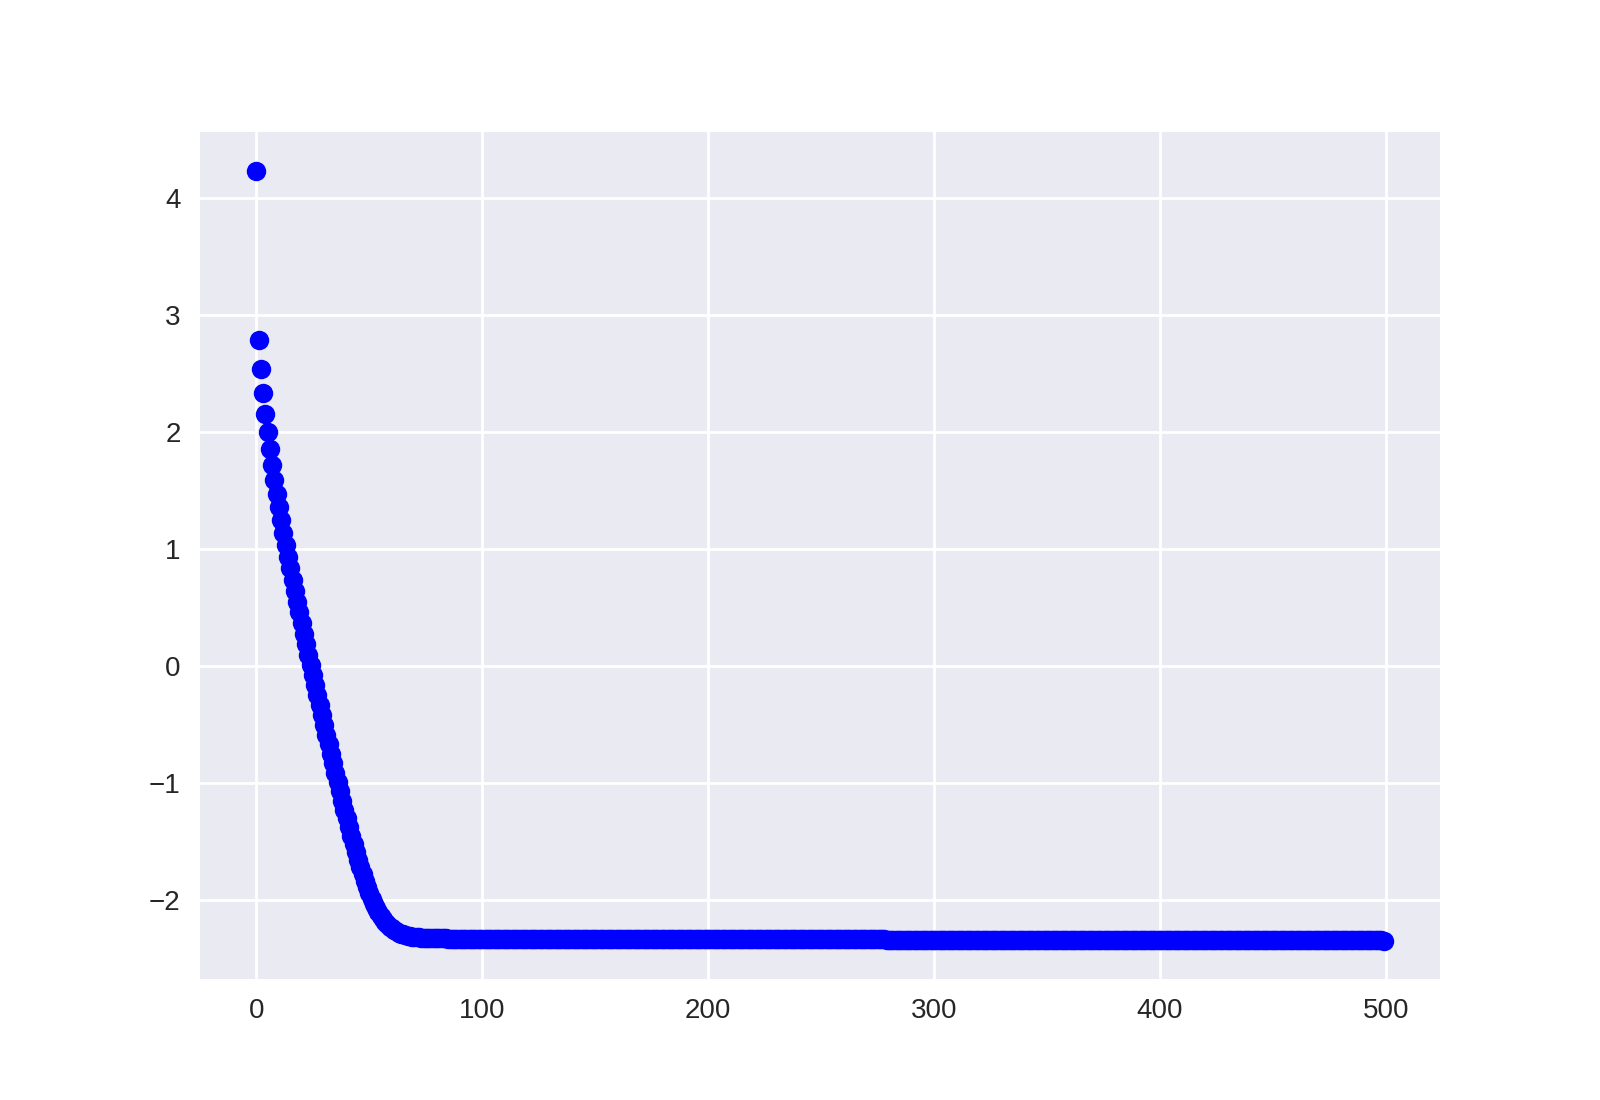
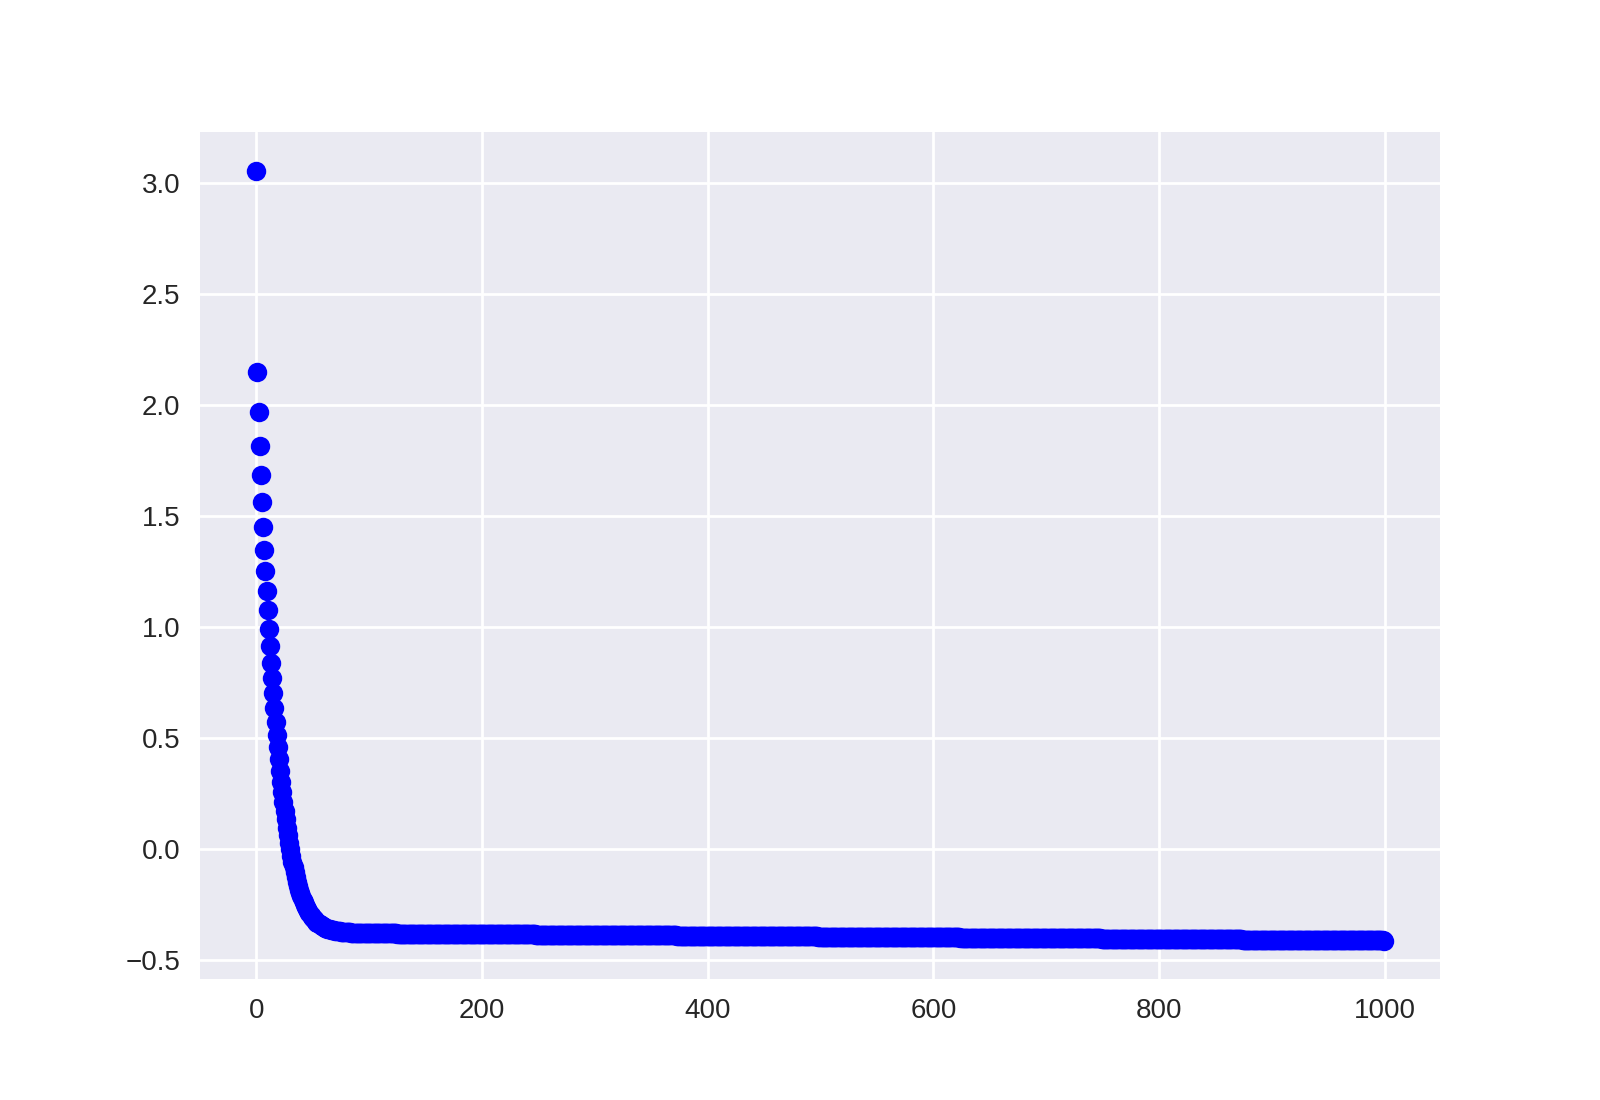
Deploy Ceystyle/optimization-benchmark to github.com/Ceystyle/optimization-benchmark.git:gh-pages

diff --git a/performance.py b/performance.py
@@ -1,0 +1,56 @@
+"""Compare performance of different optimization algorithms."""
+
+import numpy as np
+import matplotlib.pyplot as plt
+import functions
+import optimizers
+import inspect
+
+algorithms = []
+for name, obj in inspect.getmembers(optimizers):
+    if inspect.isclass(obj):
+        algorithms.append(name)
+
+benchmarks = ['Rosenbrock', 'StyblinskiTang']
+dimensions = {'Rosenbrock': 2, 'StyblinskiTang': 2}
+parameters = {'StupidGradientDescent': [0.0001], 'MomentumGradientDescent': [0.0001, 0.1]}
+
+MAX_BUDGET = 10000
+EPSILON = 0.1
+performance = dict()
+
+# Get minimal steps for all benchmark / algorithm combinations
+for benchmark in benchmarks:
+    bm = getattr(functions, benchmark)(dim=dimensions[benchmark])
+    performance[benchmark] = dict()
+    for algorithm in algorithms:
+        np.random.seed(seed=42)
+        initstate = 10*(np.random.rand(dimensions[benchmark],  1)-1)[:, 0]
+        alg = getattr(optimizers, algorithm)(*parameters[algorithm], initstate, bm.grad)
+        for step in range(MAX_BUDGET * dimensions[benchmark]):
+            alg.step()
+            if np.max(np.linalg.norm(alg.state - bm.optimal()[0])) < EPSILON:
+                performance[benchmark][algorithm] = (step, dimensions[benchmark])
+                break
+        # If no entry for algorithm is available, it didn't converge
+        try:
+            performance[benchmark][algorithm]
+        except KeyError:
+            performance[benchmark][algorithm] = (MAX_BUDGET * dimensions[benchmark] + 1, dimensions[benchmark])
+
+print(performance)
+
+# Create overall ranking
+ranking = dict()
+for algorithm in algorithms:
+    ranking[algorithm] = np.zeros(MAX_BUDGET)
+    for benchmark in benchmarks:
+        for step in range(MAX_BUDGET):
+            if performance[benchmark][algorithm][0] <= step * dimensions[benchmark]:
+                ranking[algorithm][step] += 1./len(benchmarks)
+    plt.plot(ranking[algorithm], label=algorithm)
+
+plt.xlabel('Steps / dimension')
+plt.ylabel('Percentage')
+plt.legend()
+plt.show()

diff --git a/functions.py b/functions.py
@@ -4,13 +4,37 @@ import numpy as np
 
 class Rosenbrock:
 
-    def __init__(self, a=1.,  b=100.):
-        self.a  = a
+    def __init__(self, dim=2, b=100.):
+        self.dim = dim
         self.b = b
+        self.a = 1.
 
-    def eval(self, x, y):
-        return (self.a - x)**2 + self.b * (y - x**2)**2
+    def eval(self, x):
+        return np.sum(self.b * (x[1:] - x[:-1 ** 2]) ** 2 + (self.a - x[:-1]) ** 2)
 
-    def grad(self, x, y):
-        return np.array([-2.*(self.a-x), 0]) + 2.*self.b*(y - x**2)*np.array([-2.*x,  1.])
-    
+    def grad(self, x):
+        out = np.empty((self.dim,))
+        if self.dim > 2:
+            out[1:-1] = (-4) * self.b * (x[2:] - x[1:-1] ** 2) * x[1:-1] - 2 * (self.a - x[1:-1]) \
+                        + 2 * self.b * (x[1:-1] - x[:-2] ** 2)
+        out[0] = (-4) * self.b * (x[1] - x[0] ** 2) * x[0] - 2 * (self.a - x[0])
+        out[-1] = 2 * self.b * (x[-1] - x[-2] ** 2)
+        return out
+
+    def optimal(self):
+        return (np.ones((self.dim,)), 0.)
+
+
+class StyblinskiTang:
+
+    def __init__(self, dim=2):
+        self.dim = dim
+
+    def eval(self, x):
+        return (1./2.)*np.sum(x**4-16.*x**2+5.*x)
+
+    def grad(self, x):
+        return 2.*x**3-16.*x+2.5
+
+    def optimal(self):
+        return (-2.903534*np.ones((self.dim,)), -39.16599*self.dim)

diff --git a/optimizers.py b/optimizers.py
@@ -10,4 +10,18 @@ class StupidGradientDescent:
         self.fgrad = fgrad
 
     def step(self):
-        self.state -= self.alpha * self.fgrad(self.state[0], self.state[1])
+        self.state -= self.alpha * self.fgrad(self.state)
+
+class MomentumGradientDescent:
+
+    def __init__(self, alpha, gamma, initstate, fgrad):
+        self.state = initstate
+        self.alpha = alpha
+        self.gamma = gamma
+        self.v = np.zeros((len(initstate),))
+        self.fgrad = fgrad
+
+    def step(self):
+        self.v *= self.gamma*self.v
+        self.v += self.alpha*self.fgrad(self.state)
+        self.state -= self.v

diff --git a/test.py b/test.py
@@ -6,7 +6,7 @@ import matplotlib.pyplot as plt
 import matplotlib as mpl
 mpl.style.use('seaborn')
 
-BUDGET = 500
+BUDGET = 1000
 
 if __name__=="__main__":
     # Initialize benchmark function object
@@ -24,7 +24,8 @@ if __name__=="__main__":
         # Take a gradient step with constant alpha
         gd.step()
         # Save f value
-        performance[i] = fr.eval(gd.state[0], gd.state[1])
+        print(gd.state)
+        performance[i] = fr.eval(gd.state)
 
     plt.plot(np.log10(performance), 'bo')
     plt.savefig("rosenbrock.png", dpi=200)
